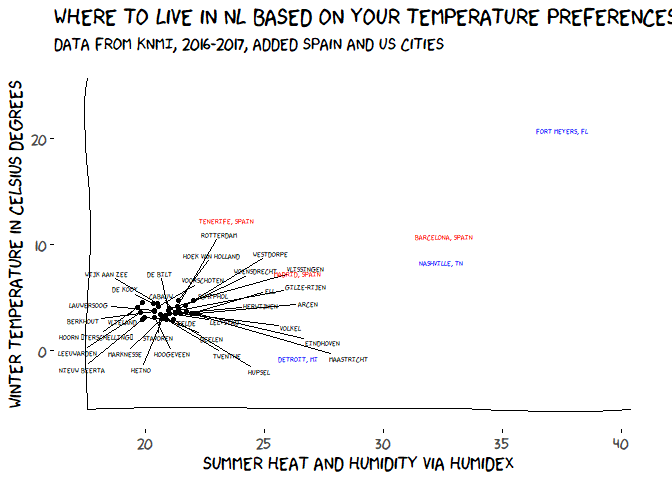
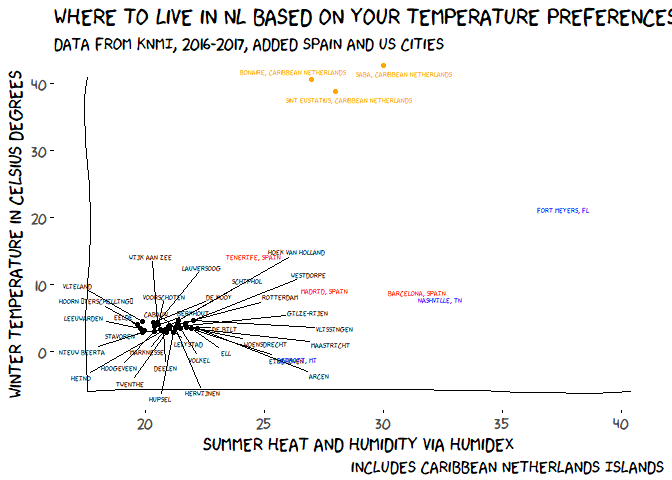
includes Caribean Netherlands

diff --git a/README.md b/README.md
@@ -1,19 +1,21 @@
 xkcd plot of netherlands weather
 ================
 
-According to this [post by Maële Salmon](http://www.masalmon.eu/2017/11/16/wheretoliveus/) inspired by xkcd. we can determine ideal city by looking at wintertemperature and humidex (combination of humidity and summer heat)
+According to this [post by Maële Salmon](http://www.masalmon.eu/2017/11/16/wheretoliveus/) inspired by xkcd. We can determine our ideal city by looking at wintertemperature and humidex (combination of humidity and summer heat).
 
 I've seen major cities in the us (post by Maelle) and where to live in spain [by Claudia Guirao](https://twitter.com/claudiaguirao/status/931615734521909248).
 
-Now I have to make this for the Netherlands too. A small detail...
-
-The netherlands is quite small and has essentially one climate.
+Now I have to make this for the Netherlands too.
 
 endresult first:
 
 ![endresult](README_files/figure-markdown_github/tempprefnlbasedonus-1.png)
 
-According to the [world travel guide](https://www.worldtravelguide.net/guides/europe/netherlands/weather-climate-geography/ "trying to disable copying from your website is essentially useless, world travelguide..."):
+A tiny detail...
+
+The Netherlands is quite small and has essentially one climate. If we don't take the Caribean Netherlands into account.
+
+According to the [world travel guide](https://www.worldtravelguide.net/guides/europe/netherlands/weather-climate-geography/ "trying to disable copying from your website is essentially useless, world travelguide..., I just went to the source and copied it"):
 
 ### Weather & climate
 
@@ -32,6 +34,8 @@ Alright, fine so why would I want to know this?
 If we do the analysis of cities in the Netherlands and their humidex and winter temperature, I would expect practically no differences between cities.
 
 Lets go:
+
+Wintertemperature
 
 First determine all the cities
 
@@ -152,7 +156,26 @@ We can also plot it with the margins of the US:
 
 ``` r
 xrange2 <- range(c(18,40))
-yrange2 <- range(c(-5,25))
+yrange2 <- range(c(-5,40))
+USA <- tribble(
+      ~NAME, ~humidex_avg, ~wintertemp,
+      "DETROIT, MI", 27, 0,
+      "NASHVILLE, TN", 33, 9,
+      "FORT MEYERS, FL",37, 20
+  )
+SPAIN <- tribble(
+      ~NAME, ~humidex_avg, ~wintertemp,
+      "MADRID, SPAIN", 27, 8,
+      "TENERIFE, SPAIN", 24, 13,
+      "BARCELONA, SPAIN",32, 10
+  )
+D_CARI <- tribble(
+      ~NAME, ~humidex_avg, ~wintertemp,
+      "Bonaire, Caribbean Netherlands", 27, calcHumx(29,76),
+      "Sint Eustatius, Caribbean Netherlands", 28, calcHumx(28,77),   
+      "Saba, Caribbean Netherlands",30, calcHumx(30,76)
+  )
+
 set.seed(3456)
 ggplot(result,
        aes(humidex_avg, wintertemp)) +
@@ -161,24 +184,19 @@ ggplot(result,
   geom_text_repel(aes(label = NAME),
                    family = "xkcd", 
                    max.iter = 50000, size = 2)+
-  geom_text_repel(data = tribble(
-      ~NAME, ~humidex_avg, ~wintertemp,
-      "DETROIT, MI", 27, 0,
-      "NASHVILLE, TN", 33, 9,
-      "FORT MEYERS, FL",37, 20
-  ), aes(humidex_avg, wintertemp, label = NAME), family = "xkcd", 
+  geom_text_repel(data = USA, aes(humidex_avg, wintertemp, label = NAME), family = "xkcd", 
                    max.iter = 50000, size = 2, color = "blue")+
-    geom_text_repel(data = tribble(
-      ~NAME, ~humidex_avg, ~wintertemp,
-      "MADRID, SPAIN", 27, 8,
-      "TENERIFE, SPAIN", 24, 13,
-      "BARCELONA, SPAIN",32, 10
-  ), aes(humidex_avg, wintertemp, label = NAME), family = "xkcd", 
+    geom_text_repel(data = SPAIN, aes(humidex_avg, wintertemp, label = NAME), family = "xkcd", 
                    max.iter = 50000, size = 2, color = "red")+
-    ggtitle("Where to live in NL based on your temperature preferences ",
-          subtitle = "Data from KNMI, 2016-2017, added Spain and US cities") +
-  xlab("Summer heat and humidity via Humidex")+
-  ylab("Winter temperature in Celsius degrees") +
+    geom_text_repel(data = D_CARI, aes(humidex_avg, wintertemp, label = NAME), family = "xkcd", 
+                   max.iter = 50000, size = 2, color = "orange")+
+    geom_point(data = D_CARI, aes(humidex_avg, wintertemp), color = "orange")+
+    labs(title = "Where to live in NL based on your temperature preferences ",
+          subtitle = "Data from KNMI, 2016-2017, added Spain and US cities",
+         x = "Summer heat and humidity via Humidex",
+         y = "Winter temperature in Celsius degrees",
+         caption = "includes Caribbean Netherlands Islands"
+             ) +
   xkcdaxis(xrange = xrange2,
            yrange = yrange2)+
   theme_xkcd() +
